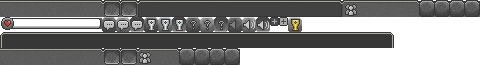
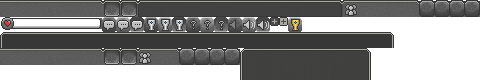
Add global population tooltip

diff --git a/client/css/main.css b/client/css/main.css
@@ -147,7 +147,7 @@ footer, header, hgroup, menu, nav, section {
     #mask {height:100%;width:100%;position:fixed;top:0;left:0;background:rgba(20,20,20,1);opacity:1;z-index:20;-moz-transition:0.5s opacity linear;-webkit-transition:0.5s opacity linear;-o-transition:0.5s opacity linear;-ms-transition:0.5s opacity linear;transition:0.5s opacity linear;pointer-events:none;}
 
     #bar-container {background:url('../img/1/barsheet.png');image-rendering:-moz-crisp-edges;position:relative;width:100%;z-index:10;}
-    #healthbar {background:url('../img/1/barsheet.png');image-rednering:-moz-crisp-edges;position:absolute;}
+    #healthbar {background:url('../img/1/barsheet.png');image-rendering:-moz-crisp-edges;position:absolute;}
 	#hitpoints {background:#d83939;-moz-transition:.5s width ease;-webkit-transition:.5s width ease;-o-transition:.5s width ease;-ms-transition:.5s width ease;transition:.5s width ease;}
     #hitpoints.white {-moz-animation:flash 0.5s linear 1;-webkit-animation:flash 0.5s linear 1;-o-animation:flash 0.5s linear 1;-ms-animation:flash 0.5s linear 1;animation:flash 0.5s linear 1;}
 	#hitpoints.invincible {-moz-animation:invincible 0.3s steps(3, end) alternate infinite;-webkit-animation:invincible 0.3s steps(3, end) alternate infinite;-o-animation:invincible 0.3s steps(3, end) alternate infinite;-ms-animation:invincible 0.3s steps(3, end) alternate infinite;}
@@ -159,6 +159,10 @@ footer, header, hgroup, menu, nav, section {
     #notifications span {display:block;text-align:center;width:100%;opacity:1;}
     
     #playercount {font-family:'GraphicPixel';color:#e3e3e3;position:absolute;}
+    #playercount:hover {cursor:pointer;color:#FCE045;}
+    #population {background:url('../img/1/barsheet.png');image-rendering:-moz-crisp-edges;position:absolute;font-family:'GraphicPixel';color:#fff;text-align:center;opacity:0;pointer-events:none;-moz-transition:0.2s opacity linear, 0.2s height ease;-webkit-transition:0.2s opacity linear, 0.2s height ease;-o-transition:0.2s opacity linear, 0.2s height ease;-ms-transition:0.2s opacity linear, 0.2s height ease;transition:0.2s opacity linear, 0.2s height ease;height:0;overflow:hidden;}
+    #population span {color:#FCE045;}
+    #population.visible {opacity:1;pointer-events:auto;}
     
     .barbutton {background:url('../img/1/barsheet.png');image-rendering:-moz-crispt-edges;position:absolute;}
     
@@ -409,7 +413,7 @@ footer, header, hgroup, menu, nav, section {
 	@media screen and (min-width: 1501px) {
 	    
 	    .upscaled #logo, .upscaled #logosparks, .upscaled .left-ornament, .upscaled .right-ornament, .upscaled #character, .upscaled #character div, .upscaled .button, .upscaled .button div, .upscaled #respawn, .upscaled #scroll, .upscaled #instructions, .upscaled .icon, .upscaled #tilt, .upscaled .parchment-left, .upscaled .parchment-middle, .upscaled .parchment-right, .upscaled .avatar, .upscaled .facebook, .upscaled .twitter, .upscaled .close, .upscaled .ribbon .top, .upscaled .ribbon .bottom, .upscaled #about .img, .upscaled .ext-link {background-image:url('../img/3/spritesheet.png');}
-	    .upscaled #bar-container, .upscaled #healthbar, .upscaled .barbutton, .upscaled #chatbox {background-image:url('../img/3/barsheet.png');}
+	    .upscaled #bar-container, .upscaled #healthbar, .upscaled .barbutton, .upscaled #chatbox, .upscaled #population {background-image:url('../img/3/barsheet.png');}
 	    .upscaled #achievements, .upscaled #achievements li, .upscaled .coin, .upscaled #achievement-notification, .upscaled #coinsparks, .upscaled .achievement-sharing a, .upscaled #previous, .upscaled #next {background:url('../img/3/achievements.png');}
 	    
 	    
@@ -496,6 +500,10 @@ footer, header, hgroup, menu, nav, section {
         #notifications span {line-height:45px;height:45px;}
 
         #playercount {font-size:20px;left:1076px;top:18px;width:172px;text-align:center;}
+        #population {background-size:1440px;right:105px;bottom:66px;width:393px;background-position:-720px -144px;font-size:20px;line-height:30px;}
+        #population.visible {height:96px;}
+        #instance-population {padding-top:18px;}
+
 
         .barbutton {background-size:1440px;height:45px;width:42px;}
         #chatbutton {background-position:-306px -51px;top:3px;left:1260px;}
@@ -565,7 +573,7 @@ footer, header, hgroup, menu, nav, section {
 	@media screen and (max-width: 1500px) {
 
 	    .upscaled #logo, .upscaled #logosparks, .upscaled .left-ornament, .upscaled .right-ornament, .upscaled #character, .upscaled #character div, .upscaled .button, .upscaled .button div, .upscaled #respawn, .upscaled #scroll, .upscaled #instructions, .upscaled .icon, .upscaled #tilt, .upscaled .parchment-left, .upscaled .parchment-middle, .upscaled .parchment-right, .upscaled .avatar, .upscaled .facebook, .upscaled .twitter, .upscaled .close, .upscaled .ribbon .top, .upscaled .ribbon .bottom, .upscaled #about .img, .upscaled .ext-link {background-image:url('../img/2/spritesheet.png');}
-	    .upscaled #bar-container, .upscaled #healthbar, .upscaled .barbutton, .upscaled #chatbox {background-image:url('../img/2/barsheet.png');}
+	    .upscaled #bar-container, .upscaled #healthbar, .upscaled .barbutton, .upscaled #chatbox, .upscaled #population {background-image:url('../img/2/barsheet.png');}
 	    .upscaled #achievements, .upscaled #achievements li, .upscaled .coin, .upscaled #achievement-notification, .upscaled #coinsparks, .upscaled .achievement-sharing a, .upscaled #previous, .upscaled #next {background:url('../img/2/achievements.png');}
 
         body {background:-moz-radial-gradient(rgba(0,0,0,0) 40%,rgba(0,0,0,1) 125%), url('../img/1/wood.png') repeat, #000; background-size:auto, 256px;}        
@@ -650,6 +658,9 @@ footer, header, hgroup, menu, nav, section {
         #notifications span {line-height:30px;height:30px;}
 
         #playercount {font-size:16px;left:717px;top:10px;width:114px;text-align:center;}
+        #population {background-size:960px;right:70px;bottom:44px;width:262px;background-position:-480px -96px;font-size:14px;line-height:20px;}
+        #population.visible {height:64px;}
+        #instance-population {padding-top:12px;}
 
         .barbutton {background-size:960px;height:30px;width:28px;}
         #chatbutton {background-position:-204px -34px;top:2px;left:840px;}
@@ -719,7 +730,7 @@ footer, header, hgroup, menu, nav, section {
 	@media screen and (max-height: 850px) {
 
 	    .upscaled #logo, .upscaled #logosparks, .upscaled .left-ornament, .upscaled .right-ornament, .upscaled #character, .upscaled #character div, .upscaled .button, .upscaled .button div, .upscaled #respawn, .upscaled #scroll, .upscaled #instructions, .upscaled .icon, .upscaled #tilt, .upscaled .parchment-left, .upscaled .parchment-middle, .upscaled .parchment-right, .upscaled .avatar, .upscaled .facebook, .upscaled .twitter, .upscaled .close, .upscaled .ribbon .top, .upscaled .ribbon .bottom, .upscaled #about .img, .upscaled .ext-link {background-image:url('../img/2/spritesheet.png');}
-	    .upscaled #bar-container, .upscaled #healthbar, .upscaled .barbutton, .upscaled #chatbox {background-image:url('../img/2/barsheet.png');}
+	    .upscaled #bar-container, .upscaled #healthbar, .upscaled .barbutton, .upscaled #chatbox, .upscaled #population {background-image:url('../img/2/barsheet.png');}
 	    .upscaled #achievements, .upscaled #achievements li, .upscaled .coin, .upscaled #achievement-notification, .upscaled #coinsparks, .upscaled .achievement-sharing a, .upscaled #previous, .upscaled #next {background:url('../img/2/achievements.png');}
 
         body {background:-moz-radial-gradient(rgba(0,0,0,0) 40%,rgba(0,0,0,1) 125%), url('../img/1/wood.png') repeat, #000; background-size:auto, 256px;}        
@@ -804,6 +815,9 @@ footer, header, hgroup, menu, nav, section {
         #notifications span {line-height:30px;height:30px;}
 
         #playercount {font-size:16px;left:717px;top:10px;width:114px;text-align:center;}
+        #population {background-size:960px;right:70px;bottom:44px;width:262px;background-position:-480px -96px;font-size:14px;line-height:20px;}
+        #population.visible {height:64px;}
+        #instance-population {padding-top:12px;}
 
         .barbutton {background-size:960px;height:30px;width:28px;}
         #chatbutton {background-position:-204px -34px;top:2px;left:840px;}
@@ -956,6 +970,9 @@ footer, header, hgroup, menu, nav, section {
         #notifications span {line-height:15px;height:15px;}
 
         #playercount {font-size:10px;left:358px;top:4px;width:57px;text-align:center;}
+        #population {background-size:480px;right:35px;bottom:22px;width:131px;background-position:-240px -48px;font-size:9px;line-height:12px;}
+        #population.visible {height:32px;}
+        #instance-population {padding-top:5px;}
 
         .barbutton {background-size:480px;height:15px;width:14px;}
         #chatbutton {background-position:-102px -17px;top:1px;left:420px;}
@@ -1048,6 +1065,7 @@ footer, header, hgroup, menu, nav, section {
         #playercount {font-size:20px;left:270px;top:8px;width:114px;text-align:center;}
         #playercount span {display:none;}
         #playercount span.count {display:inline;}
+        #population {display:none;}
 
         .barbutton {background-size:960px;height:30px;width:28px;}
         #chatbutton {background-position:-204px -34px;top:2px;left:360px;}
@@ -1226,4 +1244,4 @@ footer, header, hgroup, menu, nav, section {
 
     .chromewin #parchment, .chromewin #parchment input, .chromewin #notifications, .chromewin #instructions, .chromewin #achievements, .chromewin #achievement-notification, 
     .chromewin #playercount, .chromewin #credits, .chromewin #loadcharacter, .chromewin #confirmation, .chromewin #death, .chromewin #error, .chromewin #about, 
-    .chromewin #parchment p, .chromewin #portrait p, .chromewin #noscript, .chromewin footer, .chromewin .bubble p {font-family:'AdvoCut';}
+    .chromewin #parchment p, .chromewin #portrait p, .chromewin #noscript, .chromewin footer, .chromewin .bubble p, .chromewin #population {font-family:'AdvoCut';}

diff --git a/client/index.html b/client/index.html
@@ -272,7 +272,7 @@ An HTML5 mini-MMORPG by Little Workshop http://www.littleworkshop.fr
 					       <span id="message2"></span>
 					    </div>
 					</div>
-                    <div id="playercount">
+                    <div id="playercount" class="clickable">
                         <span class="count">0</span> <span>online</span>
                     </div>
                     <div id="barbuttons">
@@ -287,6 +287,14 @@ An HTML5 mini-MMORPG by Little Workshop http://www.littleworkshop.fr
 					    <input id="chatinput" class="gp" type="text" maxlength="60">
 				    </form>
 				</div>
+                <div id="population">
+                    <div id="instance-population" class="">
+                        <span>75</span> players in your instance
+                    </div>
+                    <div id="world-population" class="">
+                        <span>2,456</span> players worldwide
+                    </div>
+                </div>
 		    </div>
 		</div>
 		<footer>

diff --git a/client/js/main.js b/client/js/main.js
@@ -49,6 +49,14 @@ define(['jquery', 'app'], function($, App) {
         	$('#instructions').click(function() {
                 app.hideWindows();
         	});
+        	
+        	$('#playercount').click(function() {
+        	    app.togglePopulationInfo();
+        	});
+        	
+        	$('#population').click(function() {
+        	    app.togglePopulationInfo();
+        	});
 	
         	$('.clickable').click(function(event) {
                 event.stopPropagation();

diff --git a/client/js/app.js b/client/js/app.js
@@ -418,6 +418,10 @@ define(['jquery', 'storage'], function($, Storage) {
             }
             $('#helpbutton').removeClass('active');
         },
+        
+        togglePopulationInfo: function() {
+            $('#population').toggleClass('visible');
+        },
 
         openPopup: function(type, url) {
             var h = $(window).height(),
